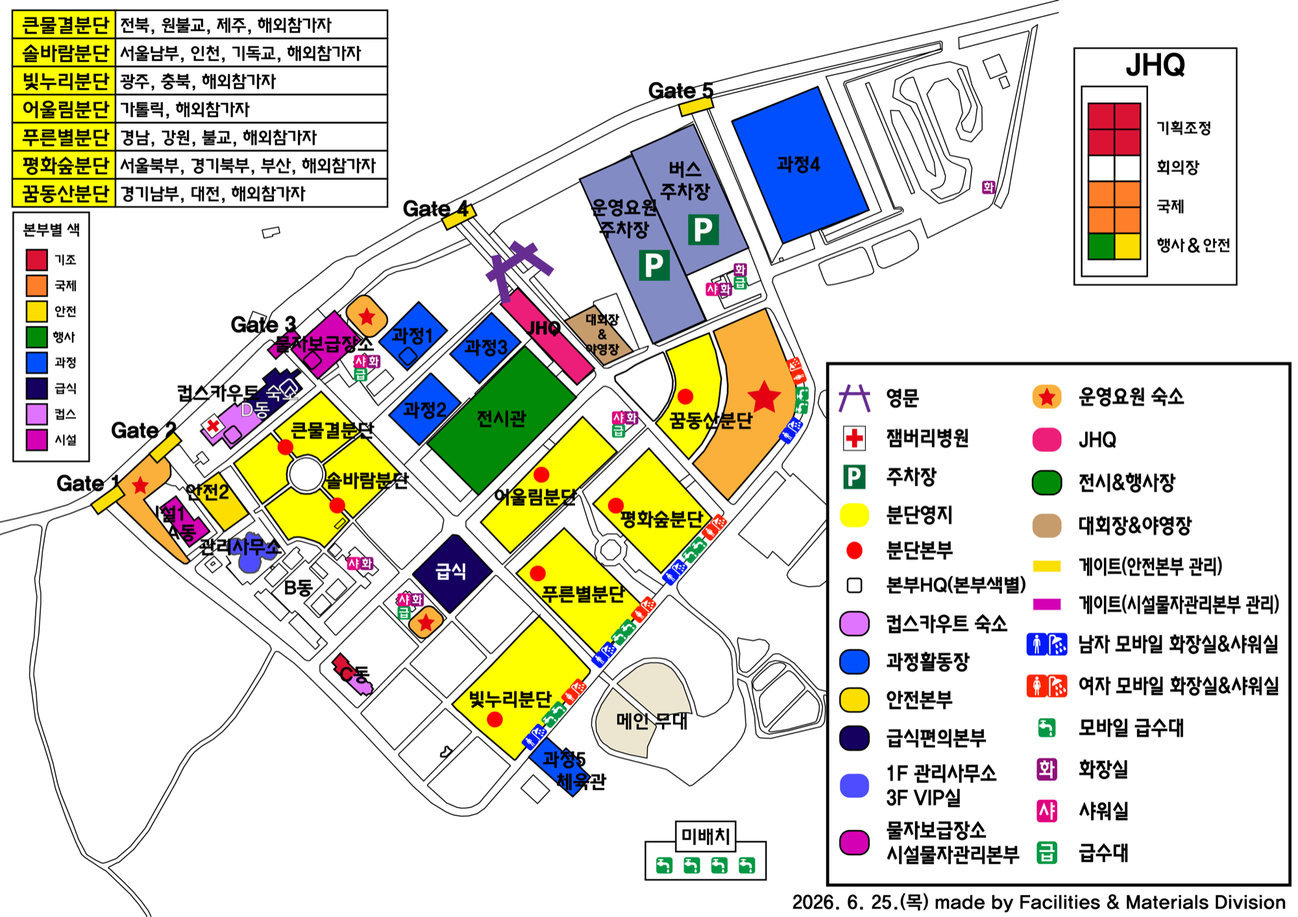
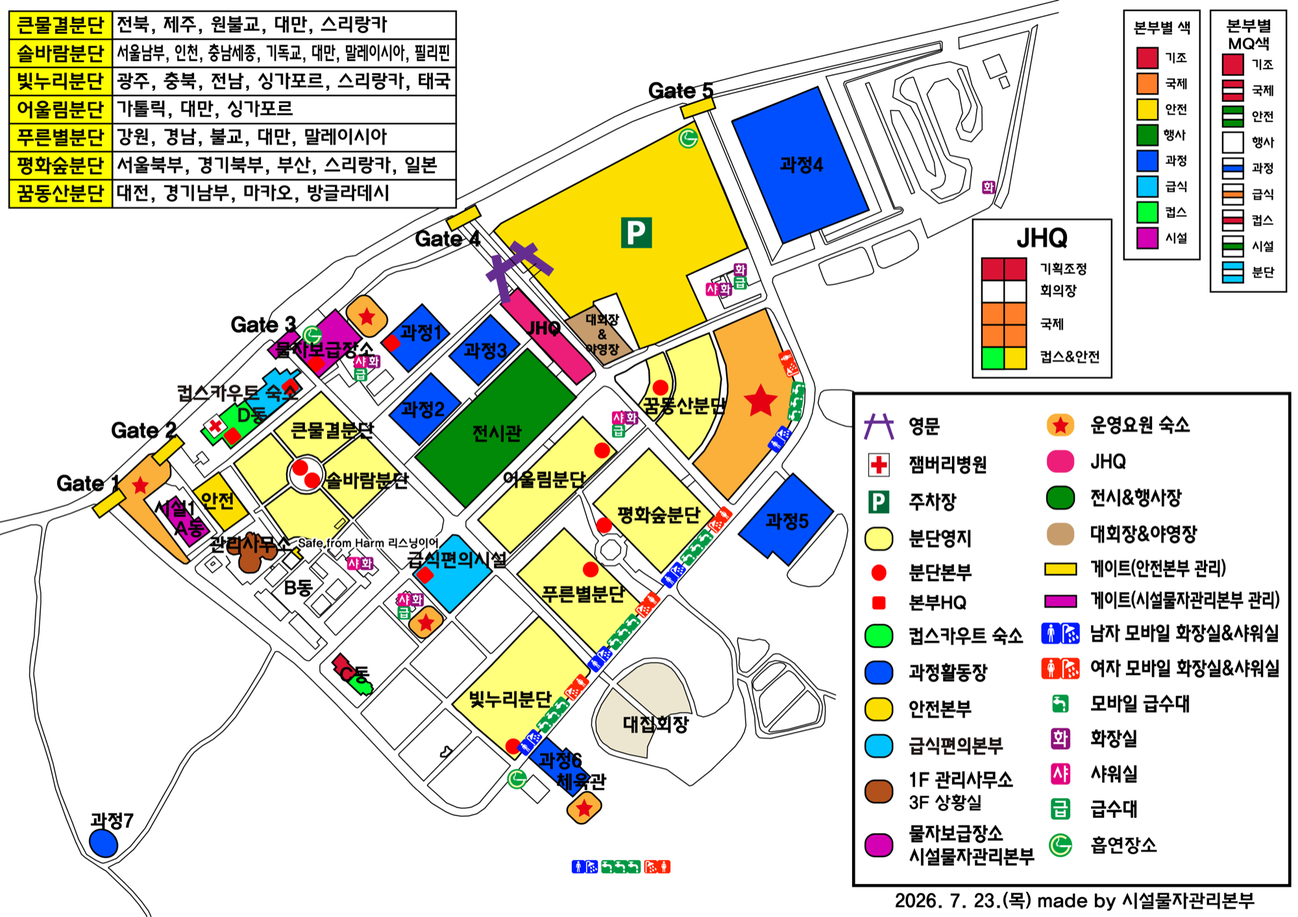
feat(v0.9.292): site map 2026-07-23 final edition + zone rework
- swap sitemap.png to the 2026-07-23 Facilities Division final map (2000x1414)
- zones: add p5 / p7 / safety / park, drop staffpark+buspark, relabel
  stage->대집회장, food->급식편의본부, gym->과정6 활동장·체육관
- fix greedy 'HQ' alias that pulled 안전본부/급식편의본부 into JHQ
- divisions: align federation lists to the map, one-shot fedver migration
  (server cleanDivision whitelist updated so the marker survives)
- keep krjam-jebo zone list in sync

diff --git a/jamboree-plan/app.js b/jamboree-plan/app.js
@@ -3216,25 +3216,33 @@ function renderContacts(){
 }
 
 /* ===== 현장 위치 지도 (site map) — 홍보부 인원 위치 (수동 배치 + 일정표 연동) ===== */
-/* 좌표(x,y)는 배치도 이미지(2000×1414) 기준 비율(0~1). al=장소명 자동매칭 별칭 */
+/* 좌표(x,y)는 배치도 이미지(2000×1414) 기준 비율(0~1). al=장소명 자동매칭 별칭
+   배치도 기준본: 2026-07-23 시설물자관리본부 최종본(원본 KakaoTalk_Photo_2026-08-02-00-13-17.png).
+   ⚠ 배치도를 갈아끼우면 아래 좌표도 같이 재실측할 것 — 이미지만 바꾸면 핀이 엉뚱한 곳을 가리킨다. */
 var ZONES=[
   // 본부 · 시설
-  {key:'jhq',label:'JHQ 본부',grp:'본부·시설',x:0.416,y:0.373,al:['jhq','본부','미디어','홍보','상황실','회의']},
+  // ⚠ 별칭에서 '본부' 제거(v0.9.292): 부분문자열 매칭이라 '안전본부'·'급식편의본부'까지 JHQ 로 끌어갔다.
+  //    맨 장소명 '본부' 는 라벨('JHQ 본부')이 그대로 잡아 주므로 매칭은 잃지 않는다. '소무대' 때와 같은 함정.
+  {key:'jhq',label:'JHQ 본부',grp:'본부·시설',x:0.416,y:0.373,al:['jhq','미디어','홍보','상황실','회의']},
   {key:'exhibit',label:'전시·행사장',grp:'본부·시설',x:0.374,y:0.460,al:['전시','행사장','문화']},
   // ⚠ 별칭에서 '무대' 제거(v0.9.212): 부분문자열 매칭이라 '소무대'까지 메인무대로 끌어갔다.
   // 소무대는 배치도상 위치를 몰라 아직 구역이 없다 — 잘못된 곳에 사람을 표시하느니 구역을 비워 둔다.
-  {key:'stage',label:'메인무대',grp:'본부·시설',x:0.505,y:0.792,al:['메인','메인스테이지','스타디움','스테이지','개영','폐영','어워드','페스티벌']},
-  {key:'food',label:'급식',grp:'본부·시설',x:0.345,y:0.642,al:['급식','식사','배식','중식','석식','조식']},
+  {key:'stage',label:'대집회장',grp:'본부·시설',x:0.505,y:0.792,al:['메인','메인무대','메인스테이지','스타디움','스테이지','개영','폐영','어워드','페스티벌','대집회']},
+  {key:'food',label:'급식편의본부',grp:'본부·시설',x:0.345,y:0.642,al:['급식','식사','배식','중식','석식','조식','편의시설']},
   {key:'camp',label:'대회장·야영장',grp:'본부·시설',x:0.456,y:0.362,al:['대회장','야영장','설영','서브캠프']},
   {key:'p1',label:'과정1 활동장',grp:'본부·시설',x:0.318,y:0.368,al:['과정1']},
   {key:'p2',label:'과정2 활동장',grp:'본부·시설',x:0.325,y:0.449,al:['과정2','과정활동']},
   {key:'p3',label:'과정3 활동장',grp:'본부·시설',x:0.363,y:0.382,al:['과정3']},
   {key:'p4',label:'과정4 활동장',grp:'본부·시설',x:0.616,y:0.177,al:['과정4']},
-  {key:'gym',label:'과정5·체육관',grp:'본부·시설',x:0.438,y:0.840,al:['과정5','체육관']},
+  {key:'p5',label:'과정5 활동장',grp:'본부·시설',x:0.606,y:0.568,al:['과정5']},
+  // 과정6 과 체육관은 배치도상 같은 건물(파란 다각형 하나에 라벨 둘) — 구역을 나누면 핀이 같은 자리에 겹친다.
+  {key:'gym',label:'과정6 활동장·체육관',grp:'본부·시설',x:0.438,y:0.840,al:['과정6','체육관']},
+  {key:'p7',label:'과정7 활동장',grp:'본부·시설',x:0.080,y:0.919,al:['과정7']},
+  {key:'safety',label:'안전본부',grp:'본부·시설',x:0.171,y:0.547,al:['안전본부','안전']},
   {key:'supply',label:'물자보급장소',grp:'본부·시설',x:0.246,y:0.376,al:['물자','보급']},
   {key:'cubs',label:'컵스카우트 숙소',grp:'본부·시설',x:0.196,y:0.424,al:['컵스']},
-  {key:'staffpark',label:'운영요원 주차장',grp:'본부·시설',x:0.486,y:0.207,al:['운영요원주차']},
-  {key:'buspark',label:'버스 주차장',grp:'본부·시설',x:0.536,y:0.171,al:['버스']},
+  // v0.9.292: 2026-07-23 배치도에서 운영요원·버스 주차장 구분이 사라지고 P(주차장) 한 곳만 남았다.
+  {key:'park',label:'주차장',grp:'본부·시설',x:0.489,y:0.252,al:['주차','버스','운영요원주차']},
   {key:'admin',label:'관리사무소',grp:'본부·시설',x:0.235,y:0.624,al:['관리사무소']},
   {key:'hospital',label:'잼버리병원',grp:'본부·시설',x:0.173,y:0.461,al:['병원','의료','구호']},
   {key:'staffhouse',label:'운영요원 숙소',grp:'본부·시설',x:0.581,y:0.433,al:['운영요원숙소','숙소']},
@@ -3475,15 +3483,45 @@ function exportJSON(){
 }
 
 /* ===== 분단 명단 (divisions) ===== */
+/* 연맹 목록 정본 = 2026-07-23 시설물자관리본부 배치도 최종본(사용자 확정 2026-08-02).
+ * FED_VER 는 그 정본을 한 번만 덮어쓰기 위한 표식이다 — migrateDivisionFeds() 참조. */
+var FED_VER='2026-07-23';
+var FED_0723={
+  '평화숲분단':'서울북부연맹, 경기북부연맹, 부산연맹, 일본, 스리랑카',
+  '어울림분단':'가톨릭연맹, 대만, 싱가포르',
+  '푸른별분단':'경남연맹, 강원연맹, 불교연맹, 말레이시아, 대만',
+  '솔바람분단':'서울남부연맹, 인천연맹, 충남세종연맹, 기독교연맹, 대만, 말레이시아, 필리핀',
+  '큰물결분단':'전북연맹, 제주연맹, 원불교연맹, 대만, 스리랑카',
+  '빛누리분단':'광주연맹, 충북연맹, 전남연맹, 태국, 싱가포르, 스리랑카',
+  '꿈동산분단':'경기남부연맹, 대전연맹, 방글라데시, 마카오'
+};
 function defaultDivisions(){ return [
-  {id:mkid(),name:'평화숲분단',region:'서울북부',federations:'서울북부연맹, 경기북부연맹, 부산연맹, 일본, 스리랑카, 말레이시아',leader:'엄철용',ops:'송중현',safety:'허삼흥',support:'조형호'},
-  {id:mkid(),name:'어울림분단',region:'가톨릭',federations:'가톨릭연맹, 대만, 싱가포르',leader:'구형수',ops:'방중현',safety:'김지현',support:'김수연'},
-  {id:mkid(),name:'푸른별분단',region:'',federations:'경남연맹, 강원연맹, 대구연맹, 불교연맹, 말레이시아, 대만, 라이베리아',leader:'',ops:'',safety:'',support:''},
-  {id:mkid(),name:'솔바람분단',region:'서울남부',federations:'서울남부연맹, 인천연맹, 충남세종연맹, 기독교연맹, 대만, 말레이시아, 필리핀',leader:'안승휘',ops:'',safety:'',support:''},
-  {id:mkid(),name:'큰물결분단',region:'전북',federations:'전북연맹, 제주연맹, 원불교연맹, 대만, 말레이시아, 스리랑카',leader:'엄정영',ops:'박철',safety:'김인',support:'전혁준'},
-  {id:mkid(),name:'빛누리분단',region:'광주',federations:'광주연맹, 충북연맹, 전남연맹, 태국, 싱가포르, 스리랑카',leader:'이승용',ops:'박선주',safety:'한진혁',support:'유창훈'},
-  {id:mkid(),name:'꿈동산분단',region:'경기남부',federations:'경기남부연맹, 대전연맹, 방글라데시, 홍콩, 마카오',leader:'이성수',ops:'박혜정',safety:'주락형',support:'김홍기'}
+  {id:mkid(),name:'평화숲분단',region:'서울북부',federations:FED_0723['평화숲분단'],fedver:FED_VER,leader:'엄철용',ops:'송중현',safety:'허삼흥',support:'조형호'},
+  {id:mkid(),name:'어울림분단',region:'가톨릭',federations:FED_0723['어울림분단'],fedver:FED_VER,leader:'구형수',ops:'방중현',safety:'김지현',support:'김수연'},
+  {id:mkid(),name:'푸른별분단',region:'',federations:FED_0723['푸른별분단'],fedver:FED_VER,leader:'',ops:'',safety:'',support:''},
+  {id:mkid(),name:'솔바람분단',region:'서울남부',federations:FED_0723['솔바람분단'],fedver:FED_VER,leader:'안승휘',ops:'',safety:'',support:''},
+  {id:mkid(),name:'큰물결분단',region:'전북',federations:FED_0723['큰물결분단'],fedver:FED_VER,leader:'엄정영',ops:'박철',safety:'김인',support:'전혁준'},
+  {id:mkid(),name:'빛누리분단',region:'광주',federations:FED_0723['빛누리분단'],fedver:FED_VER,leader:'이승용',ops:'박선주',safety:'한진혁',support:'유창훈'},
+  {id:mkid(),name:'꿈동산분단',region:'경기남부',federations:FED_0723['꿈동산분단'],fedver:FED_VER,leader:'이성수',ops:'박혜정',safety:'주락형',support:'김홍기'}
 ]; }
+/* 이미 저장된 보드의 연맹 목록을 배치도 최종본 기준으로 1회 정합(사용자 확정 — 지도가 정본).
+ * 지워지는 것: 큰물결·평화숲의 말레이시아 · 푸른별의 대구연맹/라이베리아 · 꿈동산의 홍콩.
+ * ⚠ 멱등 가드는 분단마다 찍는 fedver 표식이다. '지도에 없는 연맹이 있으면 지운다'로 만들면
+ *    사용자가 나중에 직접 더한 연맹까지 매 로드마다 다시 지워 버린다(= 조용한 데이터 유실).
+ * ⚠ fedver 는 서버 cleanDivision 화이트리스트에도 있어야 한다 — 없으면 저장 때마다 표식이 날아가
+ *    같은 마이그레이션이 영원히 반복된다(roster.arrive 와 같은 함정). */
+function migrateDivisionFeds(){
+  if(!domainStored('divisions')) return 0;      // 저장된 적 없는 보드 = 시드가 이미 최종본. 시드를 되살려 저장하지 않는다.
+  var L=divisionList(), touched=0, changed=0;
+  L.forEach(function(e){
+    if(!e || e.fedver===FED_VER) return;
+    var f=FED_0723[e.name]; if(!f) return;      // 사용자가 추가한 분단은 건드리지 않는다
+    e.fedver=FED_VER; touched++;
+    if(e.federations!==f){ e.federations=f; changed++; }
+  });
+  if(touched){ saveDivisions(); console.info('[마이그레이션] 분단 연맹 목록 배치도('+FED_VER+') 기준 정합 — 표식 '+touched+'건 · 실제 변경 '+changed+'건'); }
+  return changed;
+}
 function divisionList(){
   if(!state.divisions) state.divisions=defaultDivisions();
   var defs=null;   // 구버전(연맹목록 없음) 데이터에 이름으로 연맹목록 백필
@@ -5567,7 +5605,7 @@ function setView(v){
 function loadBoard(){
   netBusy(1);
   fetch('/api/jamboree-plan',{headers:authHeader()}).then(function(r){ if(r.status===401){ authExpired(); throw new Error('401'); } return r.json(); }).then(function(j){
-    applyServer(j); mergeSeedMeetings(); dedupeTimetableById(); mergeCubObservers(); migrateCubSchedule(); migrateCubReporterKSY(); mergeMediaTrack(); migrateMediaMoveMeetings(); mergeBusTrack(); mergeSuperstarJ(); upgradeProtocol(); upgradeMeals(); migrateMealsCrewN(); migrateMealsStaff(); upgradeShootList(); mergeShootlistGates(); mergeShootlistFromTimetable(); mergeShootlistFromProtocol(); saveLocal(); renderAll();
+    applyServer(j); mergeSeedMeetings(); dedupeTimetableById(); mergeCubObservers(); migrateCubSchedule(); migrateCubReporterKSY(); mergeMediaTrack(); migrateMediaMoveMeetings(); mergeBusTrack(); mergeSuperstarJ(); upgradeProtocol(); upgradeMeals(); migrateMealsCrewN(); migrateMealsStaff(); migrateDivisionFeds(); upgradeShootList(); mergeShootlistGates(); mergeShootlistFromTimetable(); mergeShootlistFromProtocol(); saveLocal(); renderAll();
     setSt('자동 저장 · 서버 동기화됨',true);
   }).catch(function(){ setSt('로컬 편집 중 (서버 연결 안 됨)'); })
     .then(function(){ netBusy(-1); });

diff --git a/test/regress-krjam-planning.js b/test/regress-krjam-planning.js
@@ -513,6 +513,10 @@ const SEED = () => {
   await go('dashboard');
   const nsUI = await page.evaluate(() => {
     const realToday = todayISO, realNow = nowHours;
+    // ⚠ 기간 밖 문구는 '오늘'을 가짜로 밀어 넣어 재현한다. 실제 시계로 재면 잼버리 기간(8/2~8/9)에
+    //    들어서는 순간부터 매일 FAIL 한다 — 정작 행사 중에 스위트가 빨개진다(v0.9.292 실제 관측).
+    todayISO = () => '2026-07-01'; nowHours = () => 14.5;
+    renderDashboard();
     const outside = { empty: (document.querySelector('#dash-now .dp-empty') || {}).textContent || '' };
     todayISO = () => '2026-08-05'; nowHours = () => 14.5;
     renderDashboard();
@@ -528,7 +532,7 @@ const SEED = () => {
     };
     todayISO = realToday; nowHours = realNow;
     renderDashboard();
-    return { outside, res, afterEmpty: (document.querySelector('#dash-now .dp-empty') || {}).textContent || '' };
+    return { outside, res, afterEmpty: outside.empty };
   });
   chk('지금 현장 패널 — 14:30 기준 표기', nsUI.res.clock === '14:30 기준', nsUI.res.clock);
   chk('열 배지 렌더(컵 1기 · 홍보부 · 입·퇴영)', nsUI.res.tracks.join(',') === '컵 1기,홍보부,컵 1기,입·퇴영', nsUI.res.tracks.join(','));
@@ -729,6 +733,78 @@ const SEED = () => {
   const nogap = await page.evaluate(() => { smTimeMin = 1200; renderSiteMap();   // 20:00 개영식(담당 r1 stage 배치)
     return { zones: (window.smGaps || []).map((g) => g.zone) }; });
   chk('20:00 개영식은 담당 배치되어 공백 아님(stage)', nogap.zones.indexOf('stage') < 0, nogap.zones.join(',') || '공백 0');
+
+  // ===== 배치도 2026-07-23 최종본 반영 (v0.9.292) =====
+  // 핀 좌표는 이미지 2000×1414 기준 비율이다 — 이미지 크기가 바뀌면 좌표 전체가 무의미해지므로 실측으로 못 박는다.
+  console.log('\n[배치도 최종본 · 구역]');
+  const smImg = await page.evaluate(() => { const i = document.getElementById('sm-img'); return { w: i.naturalWidth, h: i.naturalHeight, alt: i.alt }; });
+  chk('배치도 이미지 = 2000×1414 (핀 좌표 기준)', smImg.w === 2000 && smImg.h === 1414, smImg.w + '×' + smImg.h);
+  chk('배치도 판(2026-07-23) 이 대체텍스트에 명시', /2026-07-23/.test(smImg.alt), smImg.alt);
+  const zs = await page.evaluate(() => {
+    const keys = ZONES.map((z) => z.key);
+    const out = { keys, dup: keys.length !== new Set(keys).size, outside: [], sameSpot: [] };
+    ZONES.forEach((z) => { if (!(z.x > 0 && z.x < 1 && z.y > 0 && z.y < 1)) out.outside.push(z.key); });
+    for (let i = 0; i < ZONES.length; i++) for (let j = i + 1; j < ZONES.length; j++)
+      if (Math.abs(ZONES[i].x - ZONES[j].x) < 0.004 && Math.abs(ZONES[i].y - ZONES[j].y) < 0.004) out.sameSpot.push(ZONES[i].key + '=' + ZONES[j].key);
+    out.match = { p5: zoneForPlace('과정5'), p7: zoneForPlace('과정7'), gym6: zoneForPlace('과정6'), gymName: zoneForPlace('체육관'),
+      stage: zoneForPlace('대집회장'), main: zoneForPlace('메인무대'), food: zoneForPlace('급식'), foodNew: zoneForPlace('급식편의시설'),
+      safety: zoneForPlace('안전본부'), park: zoneForPlace('주차장'), bus: zoneForPlace('버스 주차장'),
+      foodHQ: zoneForPlace('급식편의본부'), bareHQ: zoneForPlace('본부'), jhq: zoneForPlace('JHQ 본부') };
+    out.labels = {}; ZONES.forEach((z) => { out.labels[z.key] = z.label; });
+    return out;
+  });
+  chk('신설 구역 4종(과정5·과정7·안전본부·주차장)', ['p5', 'p7', 'safety', 'park'].every((k) => zs.keys.indexOf(k) >= 0), zs.keys.join(','));
+  chk('폐지 구역 2종(운영요원·버스 주차장) 제거', zs.keys.indexOf('staffpark') < 0 && zs.keys.indexOf('buspark') < 0);
+  chk('구역 key 중복 없음', !zs.dup);
+  chk('모든 구역 좌표가 지도 안(0~1)', zs.outside.length === 0, zs.outside.join(',') || '전부 안쪽');
+  chk('같은 자리에 겹친 구역 없음(핀 중복 방지)', zs.sameSpot.length === 0, zs.sameSpot.join(' ') || '겹침 0');
+  chk('과정5 → 신설 p5 (옛 과정5·체육관으로 새지 않음)', zs.match.p5 === 'p5', '과정5→' + zs.match.p5);
+  chk('과정6·체육관 → gym', zs.match.gym6 === 'gym' && zs.match.gymName === 'gym', zs.match.gym6 + ' · ' + zs.match.gymName);
+  chk('과정7 → 신설 p7', zs.match.p7 === 'p7', '과정7→' + zs.match.p7);
+  chk('대집회장·메인무대 둘 다 stage(옛 장소명 호환)', zs.match.stage === 'stage' && zs.match.main === 'stage', zs.match.stage + ' · ' + zs.match.main);
+  chk('급식·급식편의시설 둘 다 food', zs.match.food === 'food' && zs.match.foodNew === 'food', zs.match.food + ' · ' + zs.match.foodNew);
+  chk('안전본부 → safety · 주차장 → park', zs.match.safety === 'safety' && zs.match.park === 'park', zs.match.safety + ' · ' + zs.match.park);
+  chk('옛 장소명 "버스 주차장" 도 주차장으로 흡수(유실 방지)', zs.match.bus === 'park', '버스 주차장→' + zs.match.bus);
+  // '본부' 별칭이 너무 넓어 안전본부·급식편의본부까지 JHQ 로 끌어가던 것(v0.9.292) — '소무대' 와 같은 함정
+  chk('"○○본부" 가 JHQ 로 새지 않는다', zs.match.safety === 'safety' && zs.match.foodHQ === 'food', '안전본부→' + zs.match.safety + ' · 급식편의본부→' + zs.match.foodHQ);
+  chk('맨 "본부" · "JHQ 본부" 는 여전히 JHQ', zs.match.bareHQ === 'jhq' && zs.match.jhq === 'jhq', zs.match.bareHQ + ' · ' + zs.match.jhq);
+  chk('라벨 정정(대집회장·급식편의본부·과정6)', zs.labels.stage === '대집회장' && zs.labels.food === '급식편의본부' && /과정6/.test(zs.labels.gym),
+    [zs.labels.stage, zs.labels.food, zs.labels.gym].join(' · '));
+  // 구역 마커가 실제로 지도 이미지 경계 안에서 그려지는가(좌표만 맞고 화면 밖이면 소용없다)
+  const mk = await page.evaluate(() => {
+    const img = document.getElementById('sm-img').getBoundingClientRect(), out = [];
+    document.querySelectorAll('#sm-stage .smzone').forEach((e) => { const r = e.getBoundingClientRect();
+      if (r.left < img.left - 2 || r.right > img.right + 2 || r.top < img.top - 2 || r.bottom > img.bottom + 2) out.push(e.dataset.zone); });
+    return { n: document.querySelectorAll('#sm-stage .smzone').length, out };
+  });
+  chk('구역 마커 ' + mk.n + '개가 지도 이미지 안에 그려짐', mk.n === zs.keys.length && mk.out.length === 0, mk.out.join(',') || '넘침 0');
+
+  // 분단 연맹 목록 = 배치도 최종본 기준 1회 정합(멱등 · 표식 fedver)
+  const dv = await page.evaluate(() => {
+    state.divisions = [
+      { id: 'd1', name: '큰물결분단', federations: '전북연맹, 제주연맹, 원불교연맹, 대만, 말레이시아, 스리랑카', leader: '엄정영' },
+      { id: 'd2', name: '푸른별분단', federations: '경남연맹, 강원연맹, 대구연맹, 불교연맹, 말레이시아, 대만, 라이베리아' },
+      { id: 'd3', name: '꿈동산분단', federations: '경기남부연맹, 대전연맹, 방글라데시, 홍콩, 마카오' },
+      { id: 'd4', name: '솔바람분단', federations: '서울남부연맹, 인천연맹, 충남세종연맹, 기독교연맹, 대만, 말레이시아, 필리핀' },
+      { id: 'd5', name: '테스트분단', federations: '직접 추가한 연맹' },
+    ];
+    const first = migrateDivisionFeds(), second = migrateDivisionFeds();   // 두 번째는 0 이어야 멱등
+    const by = {}; state.divisions.forEach((e) => { by[e.name] = e; });
+    // 사용자가 나중에 연맹을 더해도 다음 로드에서 되돌아가면 안 된다
+    by['큰물결분단'].federations += ', 라오스';
+    const third = migrateDivisionFeds();
+    return { first, second, third, leaderKept: by['큰물결분단'].leader,
+      gn: by['큰물결분단'].federations, pb: by['푸른별분단'].federations, kd: by['꿈동산분단'].federations,
+      sb: by['솔바람분단'].federations, mine: by['테스트분단'].federations, mineVer: by['테스트분단'].fedver };
+  });
+  chk('연맹 정합 1회차 = 3건 변경(큰물결·푸른별·꿈동산)', dv.first === 3, '변경 ' + dv.first + '건');
+  chk('말레이시아·대구연맹·라이베리아·홍콩 삭제', !/말레이시아/.test(dv.gn) && !/대구연맹|라이베리아/.test(dv.pb) && !/홍콩/.test(dv.kd),
+    [dv.gn, dv.pb, dv.kd].join(' | '));
+  chk('솔바람(지도와 동일)은 그대로', dv.sb === '서울남부연맹, 인천연맹, 충남세종연맹, 기독교연맹, 대만, 말레이시아, 필리핀', dv.sb);
+  chk('분단장 등 다른 칸은 보존', dv.leaderKept === '엄정영', dv.leaderKept);
+  chk('사용자가 추가한 분단은 건드리지 않음', dv.mine === '직접 추가한 연맹' && !dv.mineVer, dv.mine + ' / fedver=' + dv.mineVer);
+  chk('멱등 — 두 번째 실행은 변경 0', dv.second === 0, dv.second + '건');
+  chk('표식(fedver) 이후 사용자가 더한 연맹은 되돌리지 않음', dv.third === 0 && /라오스/.test(dv.gn), dv.third + '건 · ' + dv.gn);
 
   // ===== 콘텐츠 보드 — 열 너비 슬라이더 + 열 표시(숨기기) (v0.9.216) =====
   console.log('\n[보드 열 너비 · 열 표시]');

diff --git a/krjam-planning.html b/krjam-planning.html
@@ -394,7 +394,7 @@
   <section id="sitemap" style="display:none">
     <div class="sec-head">
       <h2><span data-ic="mapPin" data-ic-size="17" style="vertical-align:-3px"></span> 현장 위치 지도</h2>
-      <span class="sub">제16회 한국잼버리 야영장 배치도 위에 홍보부 인원 위치를 대략적으로 표시</span>
+      <span class="sub">제16회 한국잼버리 야영장 배치도(2026-07-23 최종본) 위에 홍보부 인원 위치를 대략적으로 표시</span>
     </div>
     <div class="smctrl">
       <div class="seg" id="sm-modeseg">
@@ -411,7 +411,7 @@
     </div>
     <p class="note" id="sm-help"><b>지금 기준</b>은 현재 시각의 <b>잼버리 일정표</b>로 인원 위치를 실시간 표시하고, <b>시간 지정</b>은 슬라이더로 특정 날짜·시각의 배치를 미리 봅니다. 일정이 없는 인원은 기본적으로 <b>JHQ 본부</b>에 모입니다. 특정 인원을 옮기려면 모인 구역을 클릭해 <b>이동</b>하거나 아바타를 드래그하세요 — <b>수동 지정은 자동보다 우선</b>합니다. ‘수동 배치 초기화’로 다시 자동 표시로 돌아갑니다.</p>
     <div class="sm-selbar" id="sm-selbar"></div>
-    <div class="smwrap"><div class="smstage" id="sm-stage"><img src="jamboree-plan/assets/sitemap.png" alt="제16회 한국잼버리 야영장 배치도" id="sm-img" draggable="false"></div></div>
+    <div class="smwrap"><div class="smstage" id="sm-stage"><img src="jamboree-plan/assets/sitemap.png?v=0.9.292" alt="제16회 한국잼버리 야영장 배치도 (2026-07-23 시설물자관리본부 최종본)" id="sm-img" draggable="false"></div></div>
     <div class="sm-gaps" id="sm-gaps" style="display:none"></div>
     <p class="note">위치는 <b>대략적인 구역</b> 기준이며, 인원은 <b>홍보부 인원 관리</b> 탭의 명단에서 가져옵니다. 일정에 ‘현장 지도 구역’을 지정하면 해당 시간에 정확한 위치로 표시됩니다. 인원을 수동으로 옮기면 <b>체크인 시각</b>이 기록됩니다(말풍선에서 확인). 기준 시각에 <b>일정은 있는데 인원이 없는 구역</b>은 <b>앰버색 ‘촬영 공백’</b>으로 지도와 아래 목록에 표시됩니다.</p>
 
@@ -712,7 +712,7 @@
 <script src="jamboree-plan/upload.js?v=0.9.283"></script>
 <!-- library.js: 자료실 도메인(목록·미리보기·업로드·삭제) -->
 <script src="jamboree-plan/library.js?v=0.9.283"></script>
-<script src="jamboree-plan/app.js?v=0.9.291"></script>
+<script src="jamboree-plan/app.js?v=0.9.292"></script>
 <script src="version-watch.js?v=0.9.283"></script>
 </body>
 </html>

diff --git a/test/regress-krjam-planning-server.js b/test/regress-krjam-planning-server.js
@@ -2,7 +2,7 @@
  * 실행: node test/regress-krjam-planning-server.js
  * 동시편집 병합('다른 사람이 편집 중')은 실제로 다른 작성자가 그 사이 바꿨을 때만 일어나야 한다
  * (혼자·같은 사람의 레이스/캐시로 baseVer 만 옛것인 경우 = 오탐 → 병합 금지). */
-import { conflictByOther, cleanRoster, cleanTT } from '../functions/api/jamboree-plan.js';
+import { conflictByOther, cleanRoster, cleanTT, cleanDivision } from '../functions/api/jamboree-plan.js';
 import { shrankTooMuch, countOf } from '../functions/api/_save-guard.js';
 import { issueMemberSession } from '../functions/api/_lib.js';
 
@@ -42,6 +42,14 @@ chk('입·퇴영 dir=in 보존', cleanTT({ id: 'b1', track: 'bus', dir: 'in' }).
 chk('dir 없으면 빈 문자열', cleanTT({ id: 't1', track: '' }).dir, '');
 chk('dir 값이 이상하면 빈 문자열(임의값 저장 안 함)', cleanTT({ id: 't1', dir: '퇴영' }).dir, '');
 chk('컵 트랙 track/batch 는 그대로', cleanTT({ id: 'c1', track: 'cub', batch: 2 }).track + '/' + cleanTT({ id: 'c1', track: 'cub', batch: 2 }).batch, 'cub/2');
+
+/* 분단 명단 저장 정리 — fedver 는 '연맹 목록을 배치도 판으로 이미 맞췄다'는 표식이다(v0.9.292).
+ * 화이트리스트에서 빠지면 저장할 때마다 표식이 날아가 같은 마이그레이션이 매 로드마다 반복된다
+ * → 사용자가 나중에 더한 연맹이 로드할 때마다 조용히 지워진다. */
+console.log('\n[분단 명단 저장 정리 — cleanDivision]');
+chk('연맹 정본 표식 fedver 보존', cleanDivision({ id: 'd1', name: '큰물결분단', fedver: '2026-07-23' }).fedver, '2026-07-23');
+chk('fedver 없으면 빈 문자열(폭발 안 함)', cleanDivision({ id: 'd1', name: '큰물결분단' }).fedver, '');
+chk('연맹 목록·분단장 등 기존 필드 유지', cleanDivision({ id: 'd1', name: '큰물결분단', federations: '전북연맹, 대만', leader: '엄정영' }).federations + '/' + cleanDivision({ id: 'd1', leader: '엄정영' }).leader, '전북연맹, 대만/엄정영');
 
 /* ── 부분 전멸 가드 (v0.9.286) ────────────────────────────────────────────────
  * 여기까지의 보호(낙관적 잠금·병합)는 "누가 먼저 바꿨나"만 본다. 혼자 편집하는 중에 항목이

diff --git a/test/regress-krjam-jebo.js b/test/regress-krjam-jebo.js
@@ -90,7 +90,15 @@ const R = []; const chk = (n, p, d) => { R.push({ n, p }); console.log((p ? '  P
   await page.click('#more'); await new Promise((r) => setTimeout(r, 200));
   const opened = await page.evaluate(() => ({ hidden: document.getElementById('sec-opt').hidden, aria: document.getElementById('more').getAttribute('aria-expanded'), zones: document.querySelectorAll('#f-zone option').length }));
   chk('더 알려주기 → 펼침 (aria 반영)', opened.hidden === false && opened.aria === 'true');
-  chk('구역 30개 (선택 안 함 + 29)', opened.zones === 30, opened.zones + '개');
+  // 구역 목록은 홍보부 보드(app.js ZONES)와 같은 key 를 쓴다 — 숫자를 박아 두면 배치도가 바뀔 때마다 여기서 걸린다.
+  // 개수는 ZONES 를 그대로 세고, '배치도가 바뀌면 같이 바뀌어야 하는 것'은 key 로 못 박는다(v0.9.292).
+  const zjb = await page.evaluate(() => ({ n: ZONES.length, keys: ZONES.map((z) => z[0]),
+    labels: Object.fromEntries(ZONES.map((z) => [z[0], z[1]])) }));
+  chk('구역 옵션 = ZONES 전부 + 선택 안 함', opened.zones === zjb.n + 1, opened.zones + '개 / ZONES ' + zjb.n);
+  chk('배치도 최종본 반영 — 과정5·과정7·안전본부·주차장 있음', ['p5', 'p7', 'safety', 'park'].every((k) => zjb.keys.includes(k)), zjb.keys.join(','));
+  chk('폐지 구역(운영요원·버스 주차장) 없음', !zjb.keys.includes('staffpark') && !zjb.keys.includes('buspark'));
+  chk('라벨 정정(대집회장 · 급식편의본부 · 과정6)', zjb.labels.stage === '대집회장' && zjb.labels.food === '급식편의본부' && /과정6/.test(zjb.labels.gym),
+    [zjb.labels.stage, zjb.labels.food, zjb.labels.gym].join(' · '));
   await page.evaluate(() => { document.getElementById('f-text').value = 'x'; document.getElementById('f-name').value = '김'; document.getElementById('f-phone').value = '010';
     document.getElementById('f-org').value = '평화숲분단'; document.getElementById('f-zone').value = 'food';
     document.getElementById('f-date').value = '2026-08-05'; document.getElementById('f-hh').value = '9'; document.getElementById('f-mm').value = '5';

diff --git a/krjam-jebo.html b/krjam-jebo.html
@@ -300,9 +300,9 @@ var T={
   }
 };
 var ZONES=[
-  ['jhq','JHQ 본부','JHQ HQ'],['exhibit','전시·행사장','Exhibition & Event Hall'],['stage','메인무대','Main Stage'],['food','급식','Dining'],['camp','대회장·야영장','Ceremony & Camp Ground'],
-  ['p1','과정1 활동장','Program Field 1'],['p2','과정2 활동장','Program Field 2'],['p3','과정3 활동장','Program Field 3'],['p4','과정4 활동장','Program Field 4'],['gym','과정5·체육관','Field 5 · Gym'],
-  ['supply','물자보급장소','Supply Center'],['cubs','컵스카우트 숙소','Cub Scout Lodging'],['staffpark','운영요원 주차장','Staff Parking'],['buspark','버스 주차장','Bus Parking'],
+  ['jhq','JHQ 본부','JHQ HQ'],['exhibit','전시·행사장','Exhibition & Event Hall'],['stage','대집회장','Grand Assembly Ground'],['food','급식편의본부','Catering & Amenities HQ'],['camp','대회장·야영장','Ceremony & Camp Ground'],
+  ['p1','과정1 활동장','Program Field 1'],['p2','과정2 활동장','Program Field 2'],['p3','과정3 활동장','Program Field 3'],['p4','과정4 활동장','Program Field 4'],['p5','과정5 활동장','Program Field 5'],['gym','과정6 활동장·체육관','Program Field 6 · Gym'],['p7','과정7 활동장','Program Field 7'],
+  ['safety','안전본부','Safety HQ'],['supply','물자보급장소','Supply Center'],['cubs','컵스카우트 숙소','Cub Scout Lodging'],['park','주차장','Parking'],
   ['admin','관리사무소','Admin Office'],['hospital','잼버리병원','Jamboree Hospital'],['staffhouse','운영요원 숙소','Staff Lodging'],
   ['gn','큰물결분단','Keunmulgyeol Div.'],['sb','솔바람분단','Solbaram Div.'],['bn','빛누리분단','Bitnuri Div.'],['ul','어울림분단','Eoullim Div.'],['pb','푸른별분단','Pureunbyeol Div.'],['ph','평화숲분단','Pyeonghwasup Div.'],['kd','꿈동산분단','Kkumdongsan Div.'],
   ['g1','Gate 1','Gate 1'],['g2','Gate 2','Gate 2'],['g3','Gate 3','Gate 3'],['g4','Gate 4','Gate 4'],['g5','Gate 5','Gate 5']

diff --git a/functions/api/jamboree-plan.js b/functions/api/jamboree-plan.js
@@ -67,13 +67,15 @@ function cleanShoot(e) {
   };
 }
 
-function cleanDivision(e) {
+export function cleanDivision(e) {   // export=테스트용(fedver 표식 보존 회귀 방지)
   e = e && typeof e === "object" ? e : {};
   return {
     id: (e.id || "").toString().slice(0, 40),
     name: (e.name || "").toString().slice(0, 60),
     region: (e.region || "").toString().slice(0, 60),
     federations: (e.federations || "").toString().slice(0, 400),
+    // 연맹 목록 정본 표식(배치도 판) — 빠지면 클라 마이그레이션이 매 로드마다 반복된다.
+    fedver: (e.fedver || "").toString().slice(0, 20),
     leader: (e.leader || "").toString().slice(0, 60),
     ops: (e.ops || "").toString().slice(0, 60),
     safety: (e.safety || "").toString().slice(0, 60),
